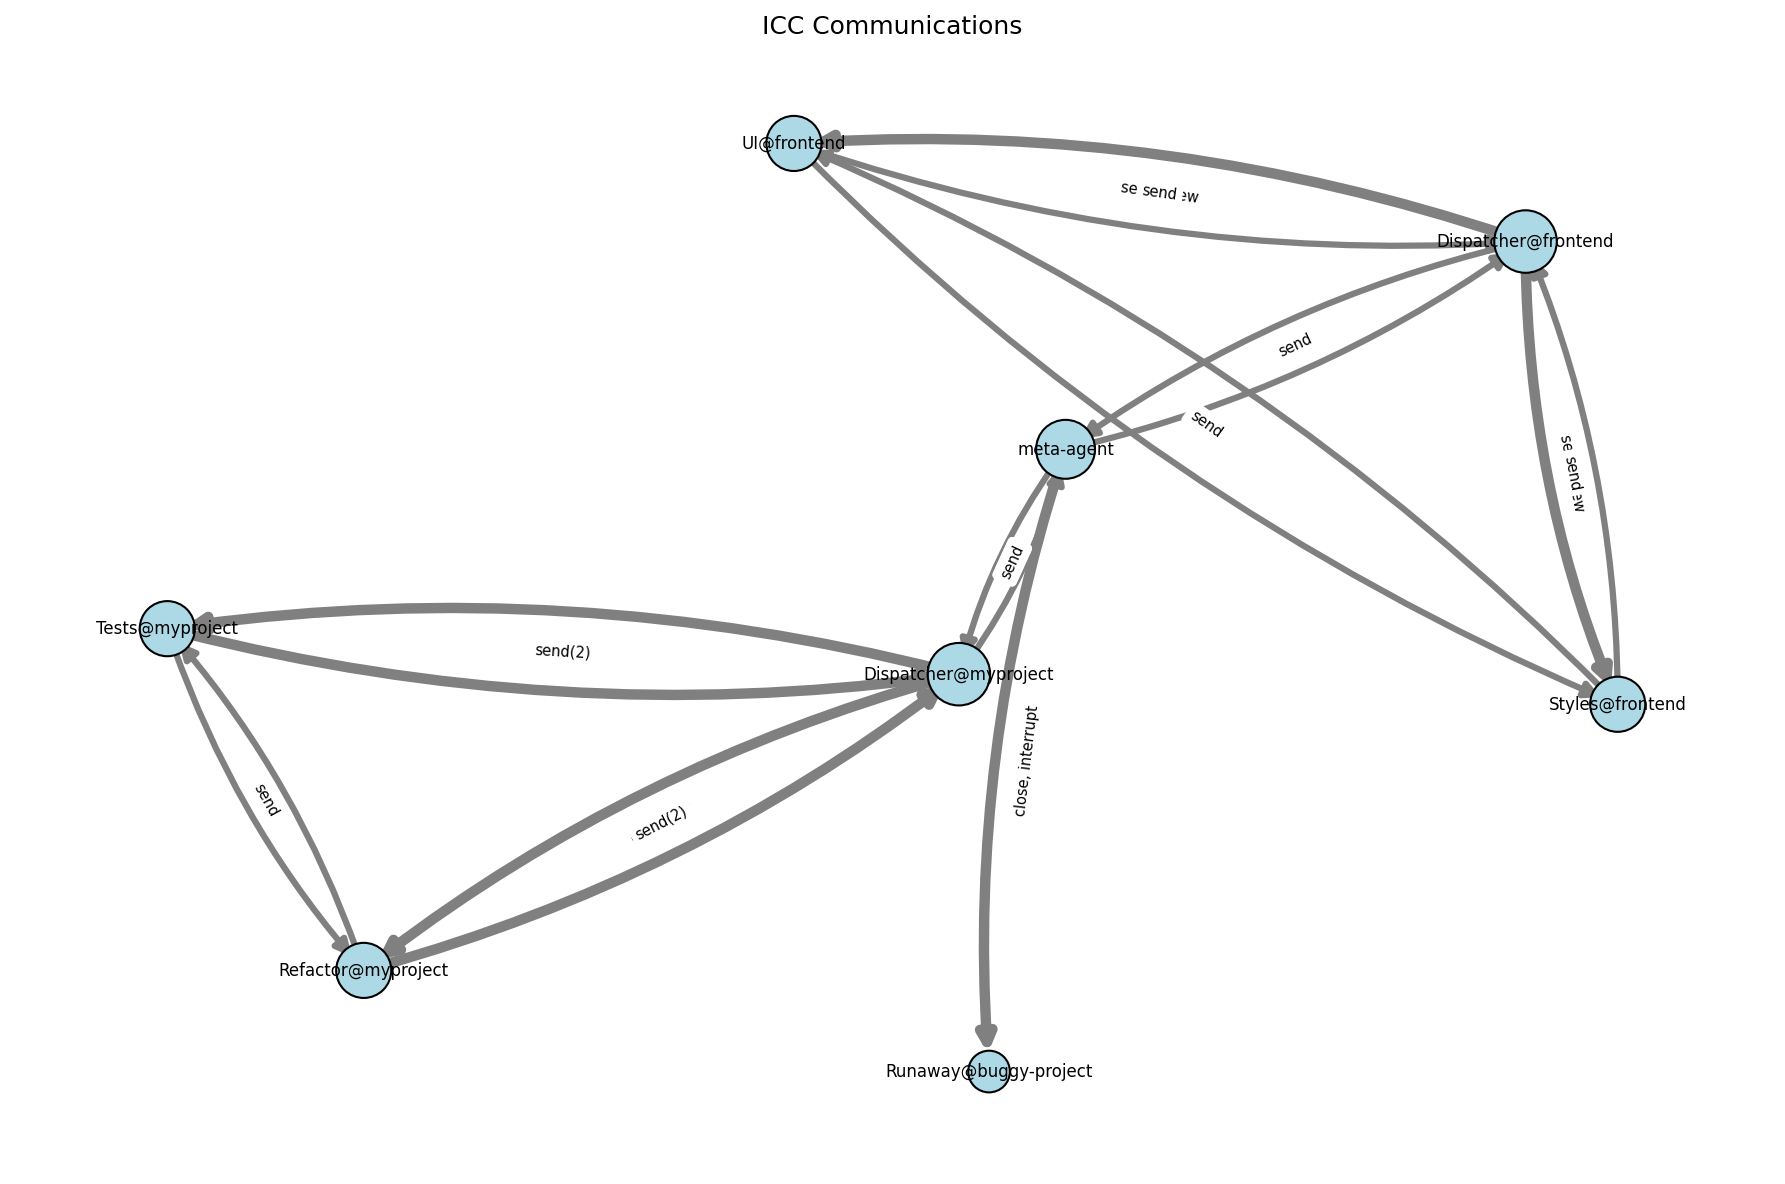
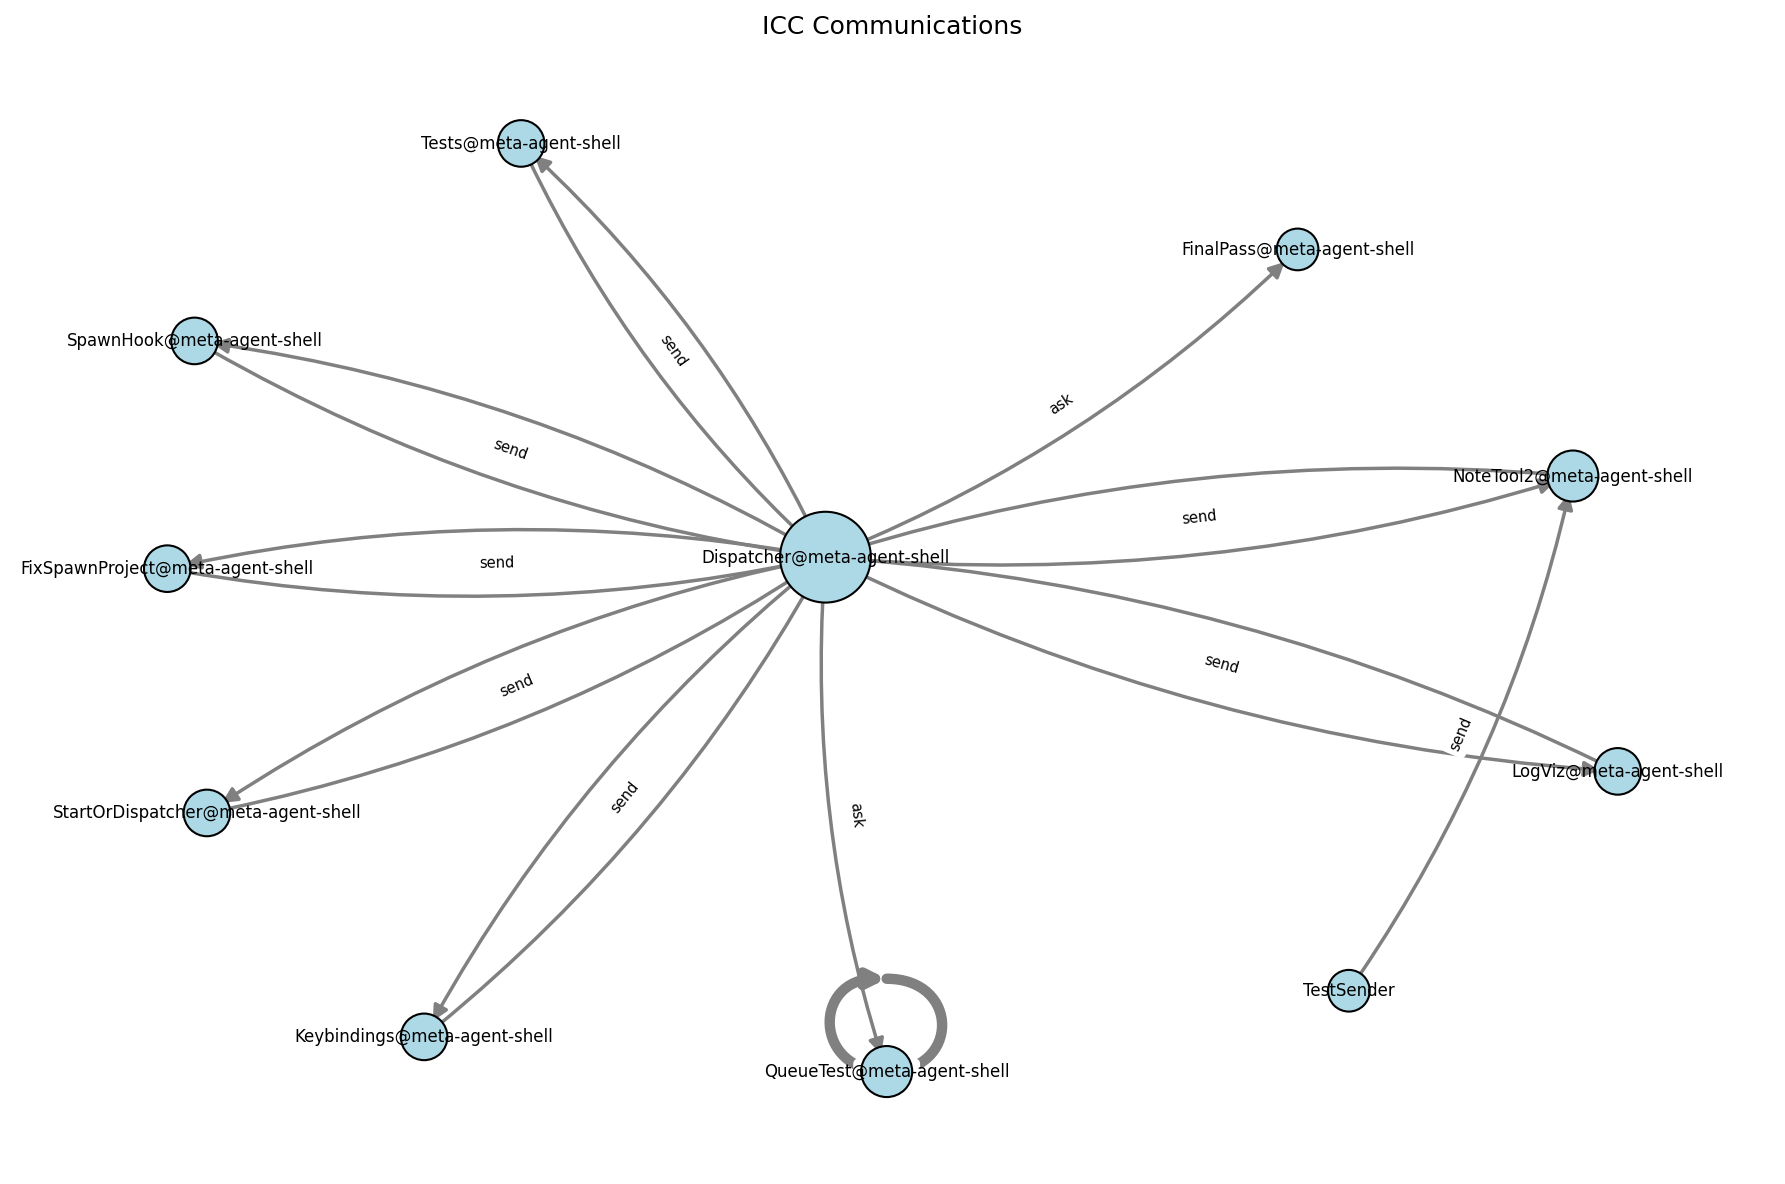
Update ICC graph with real session data, clean up shared-tools docs
- Regenerated ICC graph from actual dispatcher coordination session
- Removed "an agent" entries (from pre-CLI-tool elisp calls)
- Updated shared-tools.md with complete CLI tool reference

diff --git a/shared-tools.md b/shared-tools.md
@@ -32,6 +32,14 @@
 
 **Always include the initial task** when spawning - saves a separate send call.
 
+## Notes
+
+| Command | Description |
+|---------|-------------|
+| `note-for-later desc "note"` | Append timestamped note to `.tasks/agent_<desc>.org` |
+
+Use your role as the desc (e.g., `refactor`, `tests`). Notes persist across sessions.
+
 ## Buffer Naming
 
 Buffer names follow the pattern `AgentName Agent @ projectname`:
